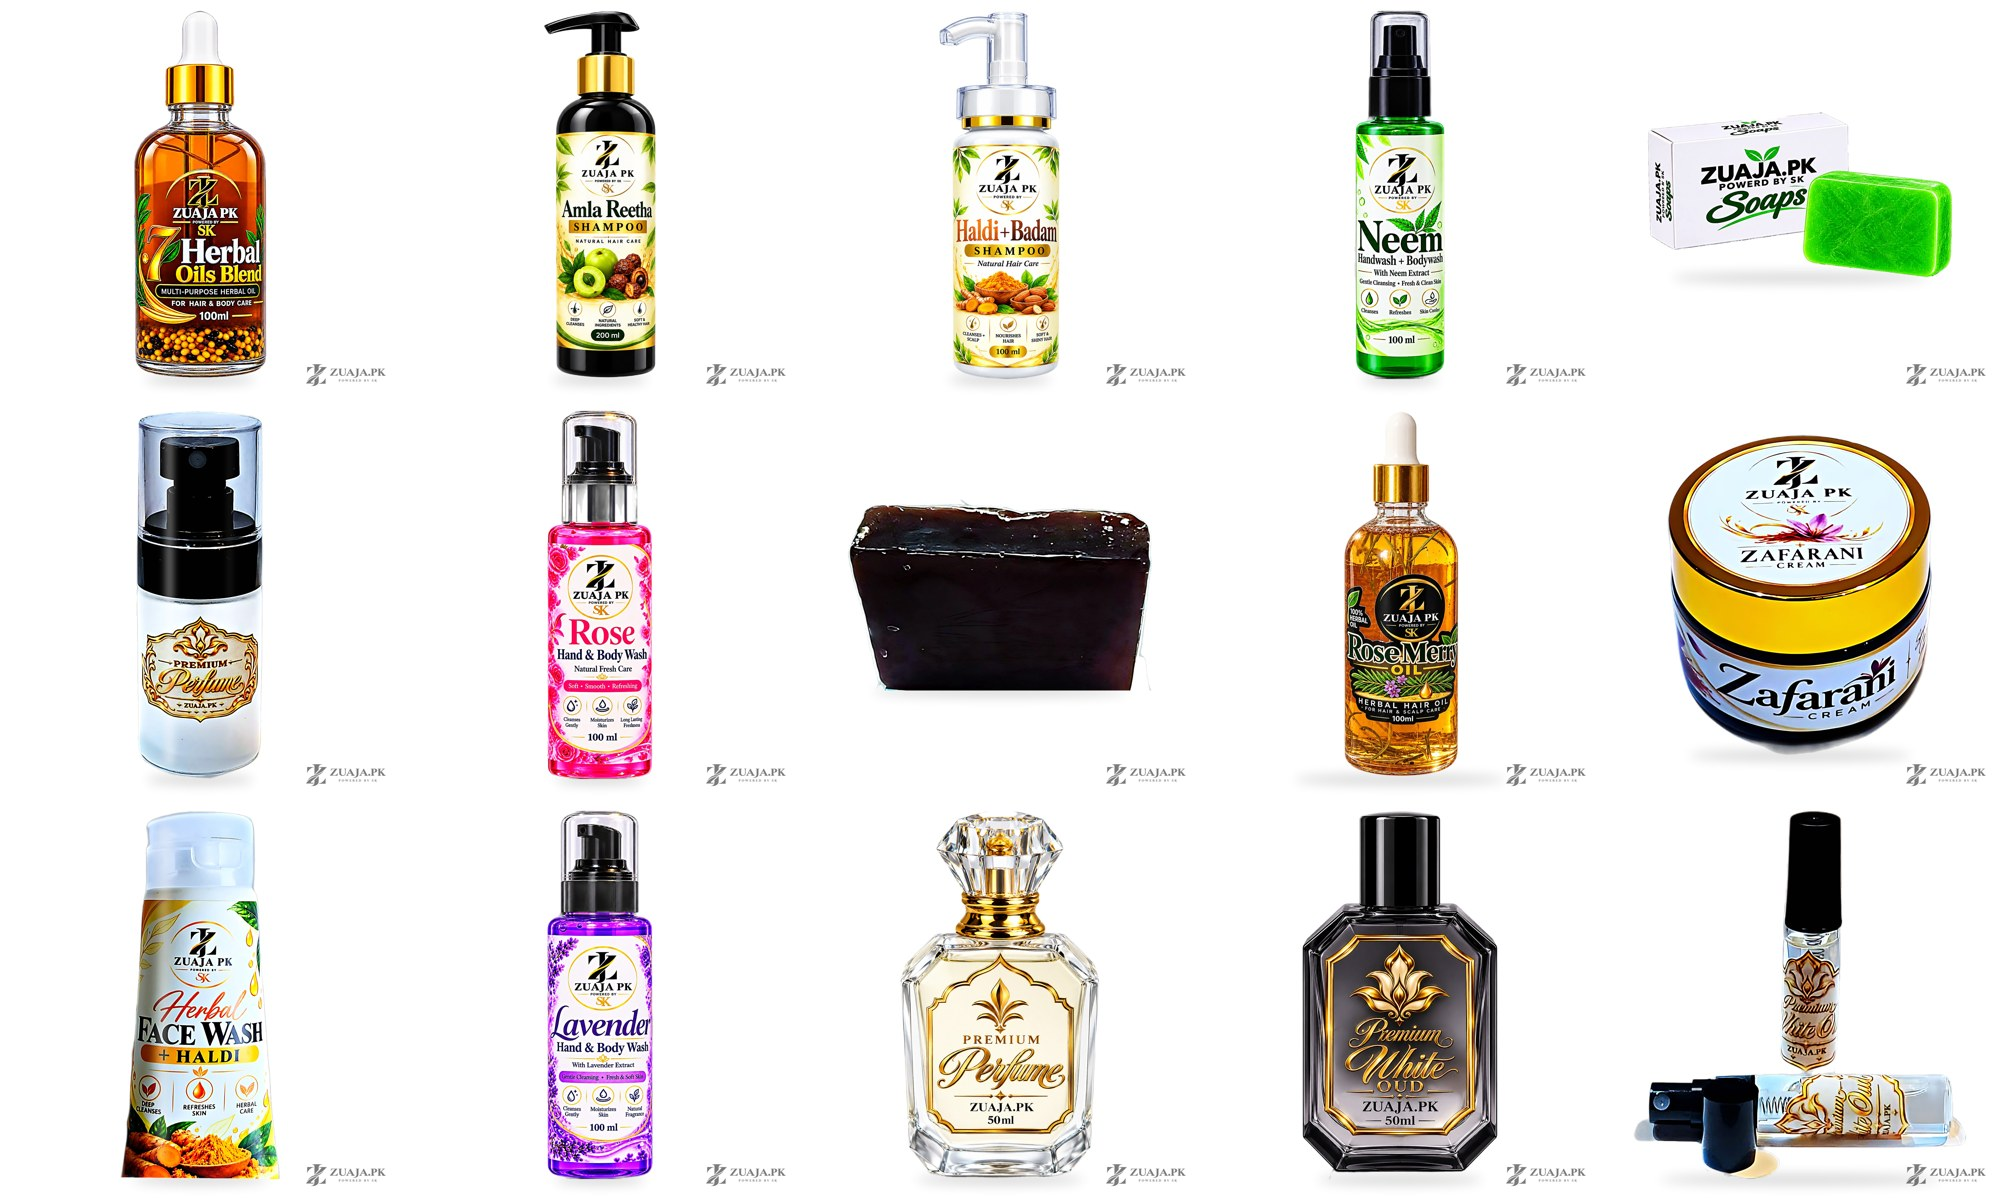
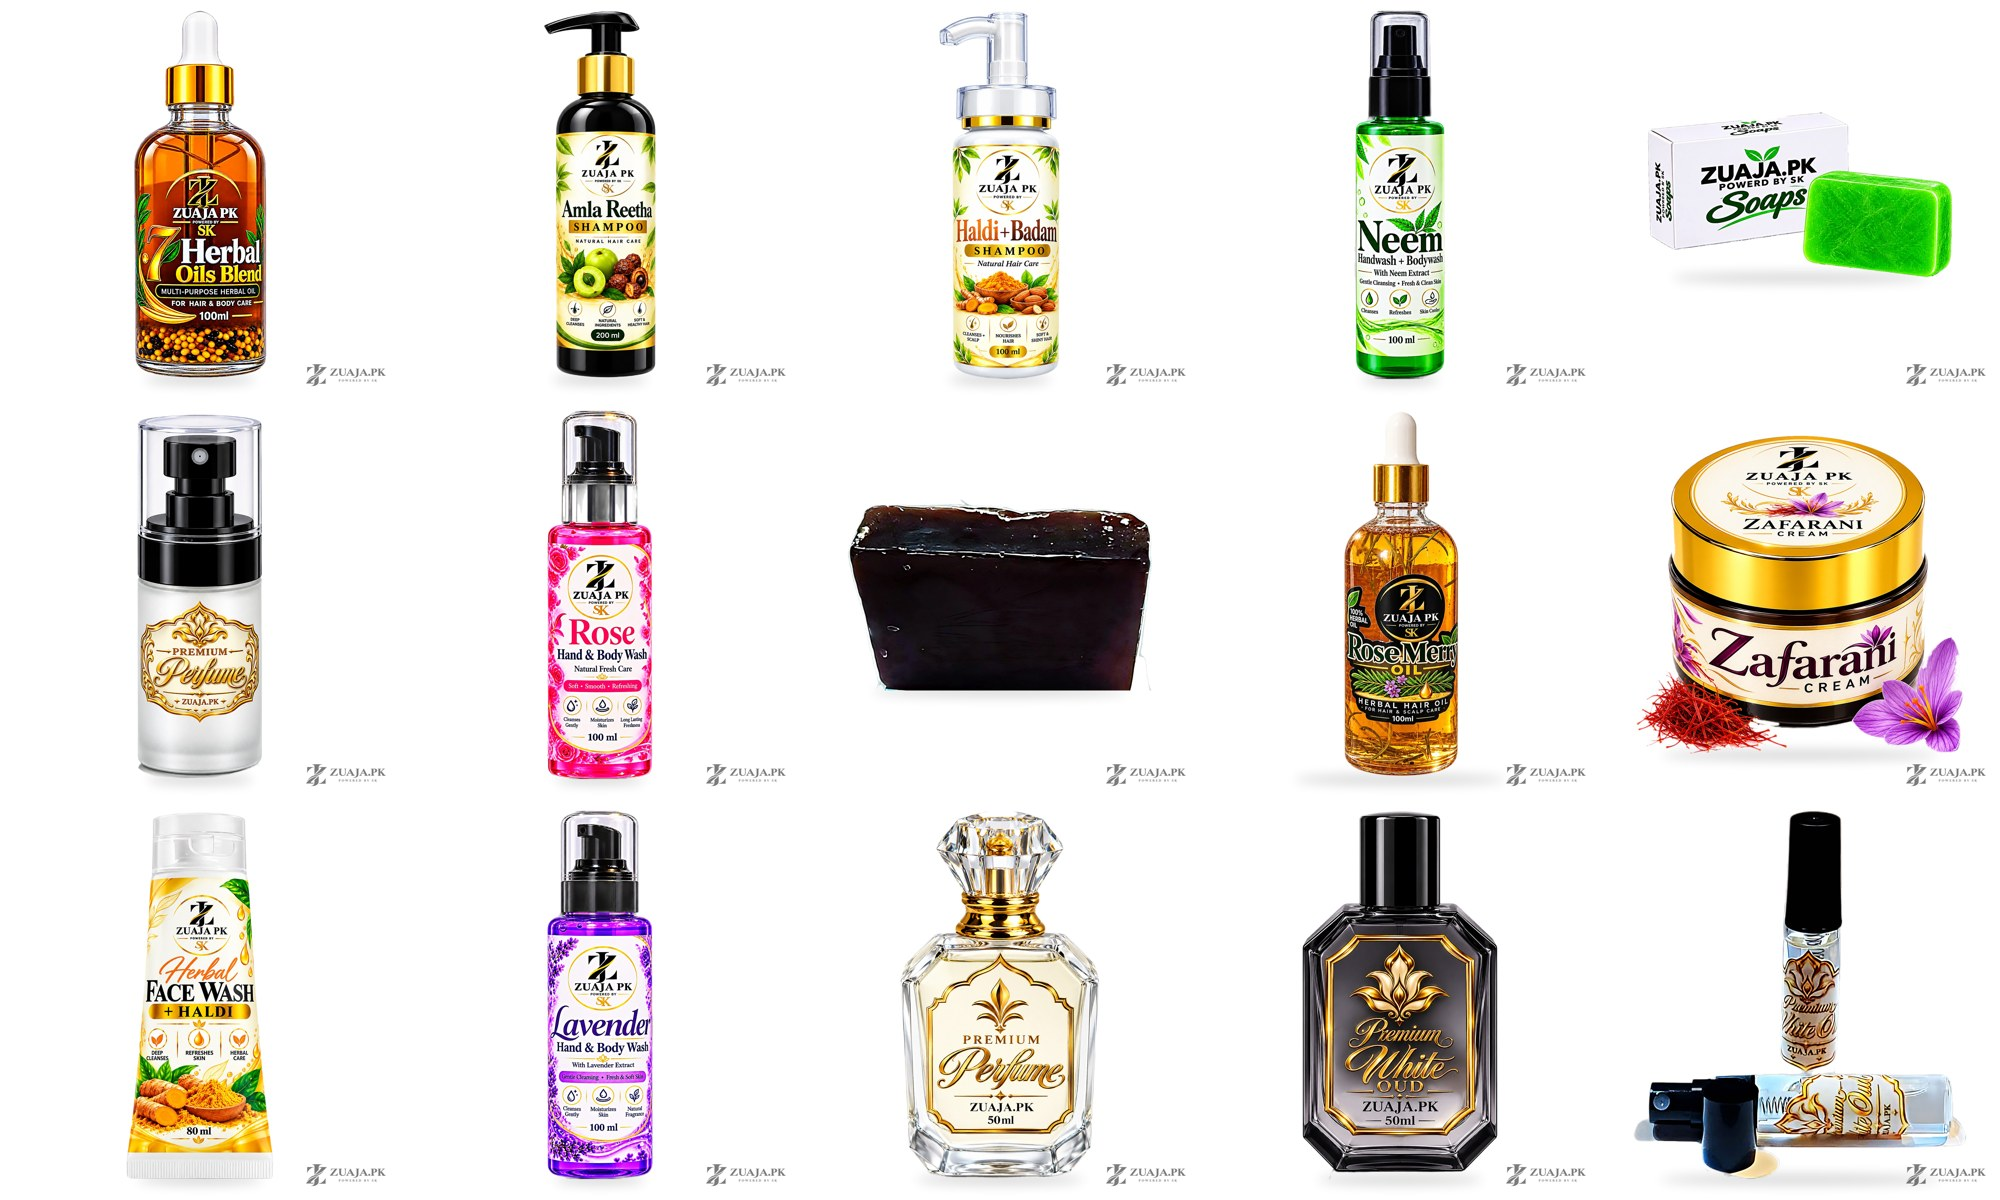
Log Zafarani, Face Wash and Unisex renders
Claude-Session: https://claude.ai/code/session_01FHxRitzaKkbjSXsXse4VX8

Changed region(s): [[0.806, 0.3392, 0.992, 0.6475], [0.062, 0.6783, 0.155, 0.9867], [0.062, 0.3392, 0.155, 0.6475]]

diff --git a/STORE-CHANGES.md b/STORE-CHANGES.md
@@ -135,3 +135,5 @@ Amla Reetha 750 · Haldi + Badam (Almond + Turmeric) 450 · Lavender wash 350 ·
 - The previous first images were detached from the products (they are still in Files).
 - Rose Soap (dark bar) was moved to the end of the Bath & Body collection, so it no longer shows near the top of the homepage "Washes & Soaps" row. It needs a better photo or render.
 - White Oud Perfume 50 ml and Signature Perfume 50 ml now use the owner's new renders as their first images (the label interior was filled so it does not wash out). The previous first images were detached.
+- Zafarani Cream, Herbal Face Wash + Haldi 80 ml and Unisex Perfume 30 ml now use the owner's new renders as their first images. The previous first images were detached.
+- Products still on photo-based images: the Neem, Rose and Lavender washes, Rose Soap, Neem Soap (box render) and the White Oud Tester.
